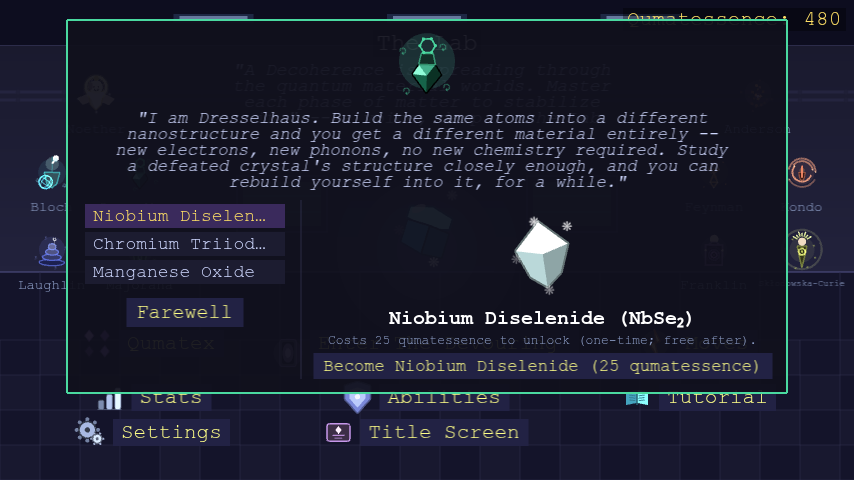
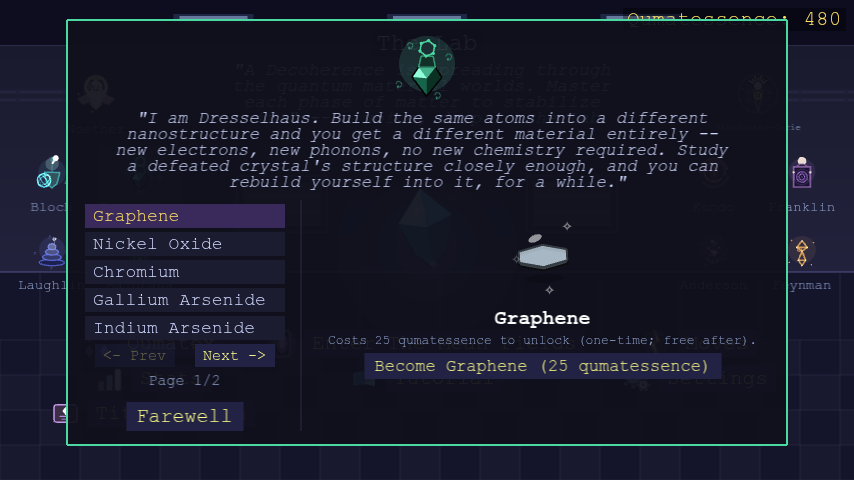
Offer every defeated crystal in Dresselhaus's transmute list

diff --git a/game/src/scenes/panels/dresselhaus.ts b/game/src/scenes/panels/dresselhaus.ts
@@ -97,6 +97,11 @@ export function showDresselhausPanel(scene: GuardianPanelHost) {
   container.add(intro);
   y += intro.height + 14;
 
+  // Every crystal the player has defeated is on offer, listed in the order
+  // they were beaten -- studying a structure is what earns the right to
+  // rebuild yourself into it, and that knowledge doesn't lapse. The list
+  // column paginates, so a long roster costs nothing but pages.
+  //
   // Excludes every hybrid-recipe result (isHybridMaterial) -- becoming a
   // fused state is Majorana's mechanic, not this one, even for the ones
   // that are also ordinary wild encounters.
@@ -104,10 +109,7 @@ export function showDresselhausPanel(scene: GuardianPanelHost) {
     ? allCrystals()
         .filter((m) => !isHybridMaterial(m.name))
         .sort((a, b) => a.name.localeCompare(b.name))
-    : scene
-        .getDefeatedMaterials()
-        .filter((m) => !isHybridMaterial(m.name))
-        .slice(-3);
+    : scene.getDefeatedMaterials().filter((m) => !isHybridMaterial(m.name));
 
   if (candidates.length === 0) {
     const text = scene.add
